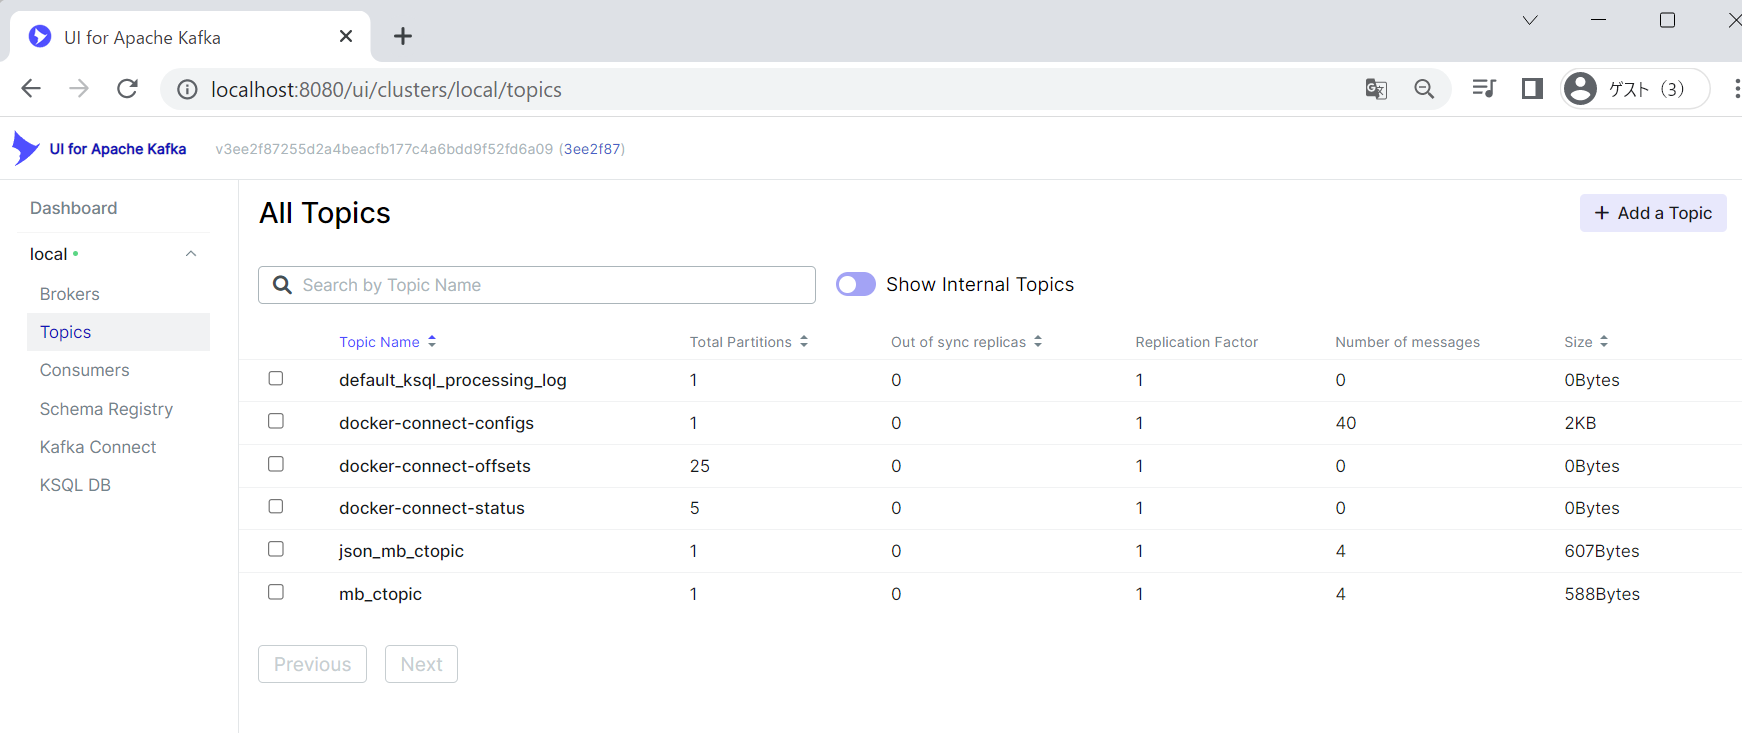
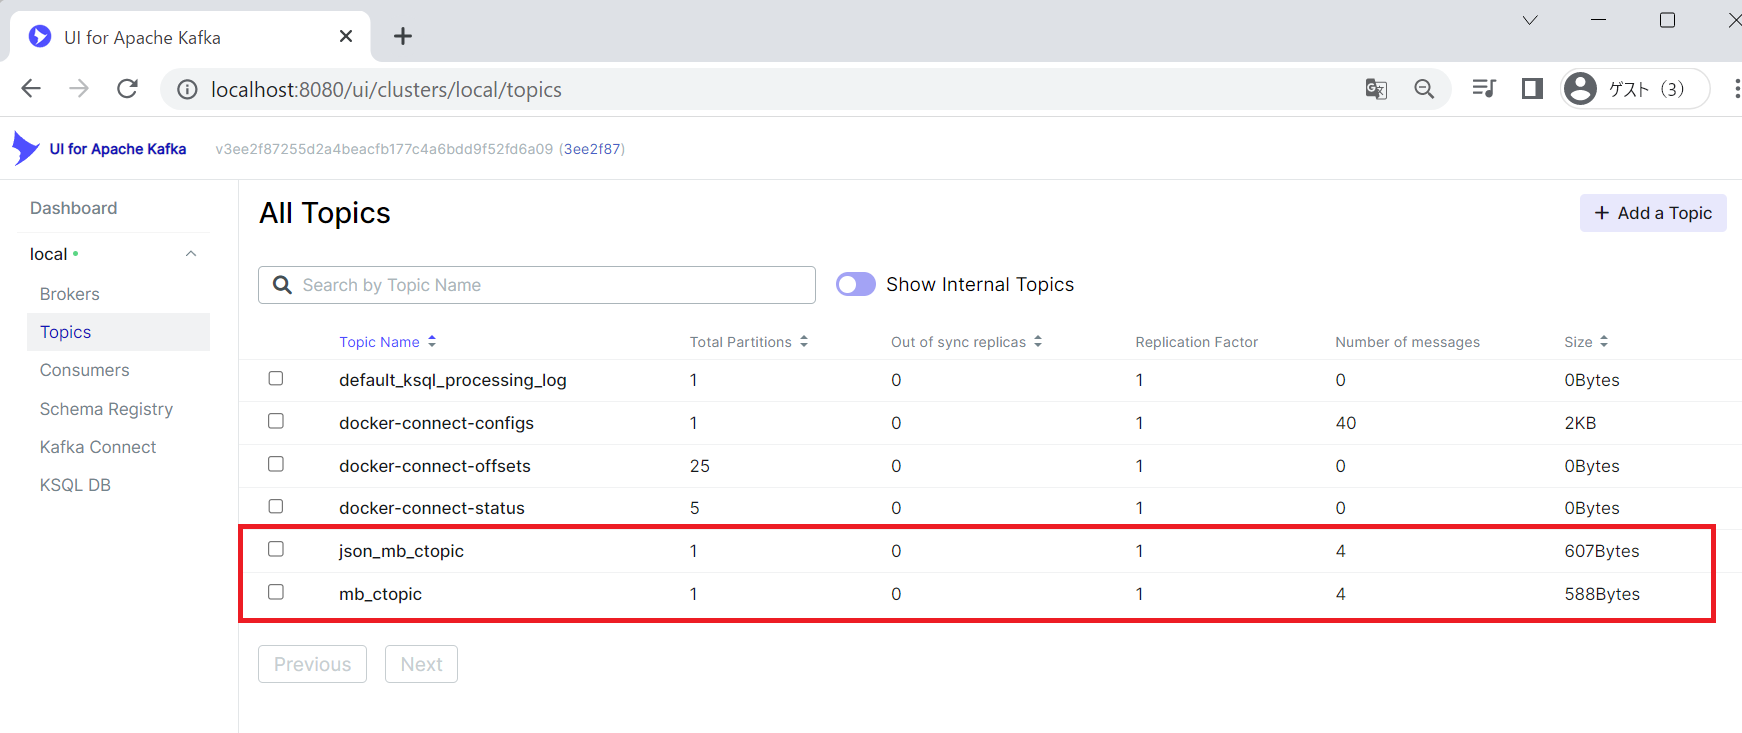
update text

Changed region(s): [[0.124, 0.6903, 0.992, 0.7503], [0.124, 0.8404, 0.992, 0.8704]]

diff --git a/docs/testlab_system/environment.md b/docs/testlab_system/environment.md
@@ -2,23 +2,27 @@
 
 ## 動作環境
 
-テストラボシステムは一般的な Windows の動作する PC 上で動作させることができます。
+テストラボシステムは、一般的な Windows PC 上で動作可能です。
+また、Docker が動作する一般的な PC で利用できるように設計されています。
+動作確認は以下の環境で行われています。
 
-docker の動作する一般的な PC であれば動作するように作成しています。
-動作確認は以下の環境で行っています。
-
-- 基盤の実行環境
-  - Windows11 Pro
+- 動作確認環境
+  - OS: Windows11 Pro
+    - CPU: AMD Ryzen 7 PRO 5850U
+    - MEM: 48GB
   - WSL2(Ubuntu 22.04)
-  - Docker
+  - Rancher Desktop(WSL2)
+    - Docker 環境として利用
 - 接続クライアント
-  - Google Chrome
-  - Safari(iPhoneSE2/iOS16)
+  - PC ブラウザ
+    - Google Chrome
+  - スマートフォン
+    - Safari(iPhoneSE2/iOS16)
+- 動作を想定している環境
+  - OS: Docker が動作する OS
+  - MEM: 16GB 程度
 
-動作確認や手順の中で、以下のコマンドを用いるので事前に導入をしてください。
-
-- git
-- docker
+別の動作確認済の環境として、AWS EC2 サービスの c5.xlarge では動作を確認しています。
 
 ## 機能とシステム構成
 
@@ -28,7 +32,7 @@ docker の動作する一般的な PC であれば動作するように作成し
 
 - スマートフォンのジャイロセンサ(加速度、傾き)を入力とします。
 - ジャイロセンサのデータをコンテナによって流通させます。
-- 流通させたコンテナから値を取り出し可視化します。
+- 流通させたコンテナから値を取り出し可視化した出力をします。
 
 ### システム構成
 
@@ -36,16 +40,31 @@ docker の動作する一般的な PC であれば動作するように作成し
 
 ![](environment/overview_on_pc.drawio.png)
 
-_図: システム構成_
+_図 A-1: システム構成_
 
-１つの PC の上でテストラボシステムを動作させます。
+１つのコンピュータの上でテストラボシステムを動作させます。
 テストラボシステム内はメッセージング機能をハブとして、各機能間を接続してシステムを実現しています。
 
-動作している環境にスマートフォンでアクセスする事で、スマートフォンのセンサ情報をシステムに取り込み蓄積し可視化を可能にします。
+データは以下のようにやり取りされていきます。
+
+1. スマートフォンセンサ機能でスマートフォンのセンサ情報をコンテナで取り込みます。
+2. メッセージング機能を介してコンテナ処理機能にコンテナデータを送ります。
+3. コンテナ処理機能はスキーマリポジトリと連携して、コンテナから JSON に変換します。
+4. メッセージング機能を介して可視化機能に JSON を送り可視化します。
 
 ## 起動手順
 
-docker compose でアプリケーションを動かします。
+ここからテストラボシステムを動作させる手順に入ります。
+
+:::info 事前準備
+この先の手順では以下のコマンドを用います。
+事前にインストールしてください。
+
+- git
+- docker
+
+:::
+
 まず、git で必要なファイルを取得(クローン)します。
 この手順で複数のリポジトリを取得します。
 
@@ -53,7 +72,10 @@ docker compose でアプリケーションを動かします。
 ~$ git clone --recursive https://github.com/sensing-iot-standard-consortium-ja/test-lab-system.git
 ```
 
-以下の手順で動作を確認します。
+複数のリポジトリが取得されます。
+
+docker のサブコマンドである、docker compose でアプリケーションを動かします。
+以下の手順を実行します。
 
 ```
 ~$ cd test-lab-system/
@@ -98,8 +120,8 @@ test-lab-system-zookeeper-1 confluentinc/cp-zookeeper:7.1.0 "/etc/confluent/dock
 
 <!-- textlint-enable -->
 
-この時点で複数のアプリケーションが動作しています。
-この後の手順に用いるものや画面を持つものを示します。
+この時点でテストラボシステムを構成する複数のアプリケーションが動作しています。
+この後の手順上重要なものを示します。
 
 - スマートフォンセンサー機能
   - test-lab-system-websensor-1: スマートフォンセンサー機能を提供する Web アプリケーション
@@ -112,10 +134,10 @@ test-lab-system-zookeeper-1 confluentinc/cp-zookeeper:7.1.0 "/etc/confluent/dock
   - test-lab-system-grafana-1: 可視化機能を提供する Web アプリケーション
   - test-lab-system-postgres-1: メッセージング機能から受け取ったデータを格納する DB
 
-container-consumer が再起動を繰り返しますが、
+現時点では container-consumer が再起動を繰り返しますが、
 この後の手順で是正するのでこの時点では許容します。
 
-## 起動確認
+### 起動確認
 
 起動確認のため、ブラウザから Web アプリケーションを開きます。
 正しく動作していると以下の URL から確認できます。
@@ -124,88 +146,128 @@ Google Chrome で以下のページを開いてみてください。
 
 1. スマートフォンセンサー機能：[http://localhost:1188/](http://localhost:1188/)
    ![TestlabSensor](environment/testlab-sensor.png)
+
+   _図 A-2: スマートフォンセンサ機能_
+
 1. スキーマリポジトリ：[http://localhost:30002/](http://localhost:30002/)
    ![IotRegisitory](environment/iot-registory.png)
+
+   _図 A-3: スキーマリポジトリ機能_
+
 1. 可視化機能：[http://localhost:3000/](http://localhost:3000/)
    ![Grafana](environment/grafana.png)
+
+   _図 A-4: 可視化機能_
+
 1. メッセージング機能(管理画面)[http://localhost:8080/](http://localhost:8080/)
    ![ApacheUI for Apache Kafka](environment/ui4apachekafka.png)
+
+   _図 A-5: メッセージング機能(管理画面)_
 
 上記のような画面が出れば、順調に進んでいます。
 
 ## 初期設定手順
 
-ここまででテストラボシステムは起動しています。
-これからは各種設定をします。
+ここまででテストラボシステムは起動していますが、いくつか設定が不足しているので設定をします。
 
 スマートフォンセンサ機能からセンサデータを送信し可視化するまでの手順を示します。
 
-### メッセージング機能とコンテナ処理機能間の設定
+### メッセージング機能へのトピック追加
 
-メッセージング機能とコンテナ処理機能間の設定をします。
+スマートフォンセンサからコンテナ処理機能にデータをやり取りするためのトピックが準備できていないので作成します。
+トピックとはデータのやり取りを行うためのチャンネルのようなものです。
 
-<!-- メッセージングに用いるソフトウェアの Kafka の設定をします。
-Kafka に複数のプロセス間のデータやり取りのハブになります。
-Kafka ではトピックに対し、データを提供する Producer とデータを利用する Consumer が存在します。
-ここでは、準備している Consumer がコンテナを入力として取り扱えるように、トピックを作成します。
-UI for Apache Kafka を用いてトピックの状況を確認します。 -->
+![](environment/overview_target1.drawio.png)
 
-メッセージング機能上に、データのやり取りに用いるトピックを作成します。
+_図 B-1: システム構成(設定箇所)_
 
-#### 変更前の状態確認
+メッセージ基盤は未登録のトピックでデータを投入した場合、自動的にトピックを作成する設定になっています。
+ここでは、スマートフォンセンサ機能からデータを送ることでトピックを追加します。
 
-以下の UI for Apache Kafka の画面より、現在存在するトピックを確認します。
+#### 変更前のトピックの確認
+
+以下の [UI for Apache Kafka](http://localhost:8080/) の画面より、現在存在するトピックを確認します。
 ページを開いた後、 `Show Internal Topics` を無効化すると 4 つのトピックが表示されています。
 
 - [http://localhost:8080/ui/clusters/local/topics](http://localhost:8080/ui/clusters/local/topics)
   ![UI for Apache Kafka1](environment/kafka_ui1.png)
 
-#### 設定変更（トピックの追加)
+_図 B-2:メッセージング(UI for Apache Kafka)機能の画面(変更前)_
 
-未登録のトピックでデータを投入した場合、自動的にトピックを追加する設定になっています。
-今回は、スマートフォンセンサ機能からデータを送ることでトピックを追加します。
+#### トピックの作成（データの送信)
 
-設定が目的なのでスマートフォンセンサ機能ですが PC から開いてください。
+トピックの作成のために、スマートフォンセンサー機能からメッセージング機能にデータを送ります。
+
+スマートフォンセンサ機能ですが PC から開いてください。
 
 1. データ送信のページを開く  
    [http://localhost:1188/ ](http://localhost:1188/)
 2. `値の更新` を押下  
-   加速度、傾きなどに適当な値が入ります
+   加速度、傾きなどに適当な値が入ります。
 3. `単発送信` を押下  
-   サンプルアプリから Kafka にデータが送信されます
+   スマートフォンセンサ機能から、メッセージ基盤へデータが送信されます。
 
 ![サンプルアプリ](environment/send_example_data.png)
-_スマートフォンセンサ機能の画面_
 
-### 設定変更語の設定状態確認
+_図 B-3:スマートフォンセンサ機能の画面_
 
-UI for Apache Kafka を開き画面を更新します。  
+メッセージ基盤へデータを送ることで、メッセージ基盤上に必要な設定が作られます。
+
+#### 設定変更後の設定状態確認
+
+[UI for Apache Kafka](http://localhost:8080/) を開き画面を更新します。  
 `json_mb_ctopic` と `mb_ctopic` の 2 つのトピックが増えていれば期待通りです。
-確認できるまで数分程度かかる可能性があります。
+ただし、確認できるまで数分程度かかる可能性があります。
 
 ![](environment/kafka_ui2.png)
+_図 B-4:メッセージング(UI for Apache Kafka)機能の画面(変更後)_
 
-ここでは `mb_ctopic` というトピックに発行されたコンテナを、
-コンテナ処理基盤(container-consumer)で処理してコンテナを json へ変換して `json_mb_ctopic` に投入している。
+ここでは `mb_ctopic` というトピックに発行されたコンテナをコンテナ処理基盤(container-consumer)で json へ変換し、
+`json_mb_ctopic` というトピックで再度メッセージング基盤に投入しています。
+システム構成からみると図 A-6: のように
 
-また、この手順で container-consumer が再起動しないようになります。
+![](environment/overview_target2.drawio.png)
 
-## メッセージング機能と可視化機能間の設定
+_図 B-5:システム構成と初期設定の対応_
 
-kafka に届いたデータを Avro というデータ形式に変換し、可視化画面用の DB に Sink するための設定をします。
+ここまでで、スマートフォンセンサからコンテナデータを受取り、
+コンテナ処理機能(container-consumer) によってコンテナデータを json へ変換し、メッセージ機能へ投入する設定が完了します。
 
-### データ変換の登録
+### メッセージング機能でのデータ変換
 
-`json_mb_topic` からフォーマットに変換し可視化を行う `Grafana`で用いるデータベースに蓄積をする。
+メッセージング基盤内向けのデータ変換とタイムスタンプの付与の設定を行います。
 
-- 以下のページを開く  
-  [http://localhost:8080/ui/clusters/local/ksqldb/query](http://localhost:8080/ui/clusters/local/ksqldb/query)
+![](environment/overview_target4.drawio.png)
 
-- 画像のようなページが表示される
-  ![](environment/ksql_query_page.png)
+_図 C-1:システム構成(設定箇所)_
 
-- ksql で Stream を作成する（１つ目）  
-  以下の ksql クエリをコピーペーストし、`Execute` を押下
+図 C-1: で示したように、メッセージング基盤内に閉じた内容の設定になります。
+
+#### データ変換の登録
+
+メッセージング基盤上では、トピック(kafka の topic)と Streaming SQL と呼ばれる機能が結合しています。
+これによって、あるトピックに流れてくるデータを SQL におけるテーブル(ストリーム)とみなして、SQL の様に処理ができます。
+
+ここでは、コンテナ処理機能からの、`json_mb_topic` のトピックから取得されるデータに対して、
+
+1. テーブル(ストリーム)を作成する
+2. タイムスタンプ付与し、トピックにする
+
+という処理を実現します。
+
+##### テーブル(ストリーム)を作成
+
+以下の手順に従って、`json_mb_topic` のトピックから、テーブル(ストリーム)を作成します。
+
+1. メッセージ基盤の KSQL の実行ページを開く  
+   [http://localhost:8080/ui/clusters/local/ksqldb/query](http://localhost:8080/ui/clusters/local/ksqldb/query)
+
+   ![](environment/ksql_query_page.png)
+
+   _図 C-2:KSQL の実行ページ_
+
+1. ksql で Stream を作成する  
+   以下の ksql の SQL をコピーペーストし、`Execute` を押下
 
 ```
 CREATE STREAM stream_mb_topic
@@ -224,13 +286,20 @@ CREATE STREAM stream_mb_topic
   );
 ```
 
-- 実行結果の確認（１つ目）
+- 実行結果の確認
 
 画像の下のように `SUCCESS Stream created` と表示される。
+
 ![](environment/ksql_execute.png)
 
-- Stream を作成する（２つ目）
-  同様にもう 1 つクエリを実行する。
+_図 C-2:メッセージング(UI for Apache Kafka)機能の ksql 実行結果の確認_
+
+これで、ストリームが作成できました。
+
+##### タイムスタンプを付与し、トピックにする
+
+ストリームに対して、タイムスタンプを付与して、トピックにするための SQL を実行します。
+前項の画面に引き続き以下の SQL を実行します。
 
 ```
 CREATE STREAM stream_mb_topic_avro
@@ -247,19 +316,25 @@ AS SELECT
 FROM stream_mb_topic as s;
 ```
 
-- 作成した stream を確認する
-  同様に以下のクエリを実行する。
+作成した stream を確認する為に、以下の SQL を実行します。
 
 ```
 show streams;
 ```
 
-![picture 23](environment/show_streams.png)  
-画像の下部のように`STREAM_MB_CTOPIC` と`AVRO_MB_CTOPIC` が表示されれば成功。
+![picture 23](environment/show_streams.png)
+
+_図 A-7:メッセージング(UI for Apache Kafka)機能の ksql 設定画面_
+
+画像の下部のように`STREAM_MB_CTOPIC` と`AVRO_MB_CTOPIC` が表示されれば期待通りです。
 
 ### メッセージング機能から可視化機能へのデータ転送
 
-Kafka の Connector を設定。
+![](environment/overview_target3.drawio.png)
+
+_図 A-8:システム構成における設定箇所_
+
+Kafka の Connector を設定することで、メッセージング機能から可視化機能のデータベースに対してデータを転送します。
 
 - Connector の設定ページを開く  
   [http://localhost:8080/ui/clusters/local/connectors/create-new](http://localhost:8080/ui/clusters/local/connectors/create-new)
@@ -297,10 +372,15 @@ Kafka の Connector を設定。
 
 `avro_mb_jtopic` という Connector が存在すれば OK です。
 
-## 可視化機能の設定
+## 可視化機能の動作確認
 
-データを可視化する画面へアクセスする。
-改めて設定する項目はないが、アプリケーションの動作確認として以下を実施する。
+可視化機能(Grafana)へアクセスし、動作を確認する。
+
+![](environment/overview_target5.drawio.png)
+
+_図 A-9:システム構成との対応_
+
+設定は事前にテストラボシステムの中で設定しているため、改めて設定する項目はないが、アプリケーションの動作確認として以下を実施する。
 
 1. Grafana へアクセス  
    以下の情報で Grafana へアクセスしログインする  
@@ -328,6 +408,8 @@ Kafka の Connector を設定。
    画面は 5 秒に 1 回の更新がされるのでデータ送信後 5 秒以内に表示される。  
    (画面右上から 1s に変更可)
    ![picture 24](environment/grafana_graph.png)
+
+_図 A-10:可視化機能 ExampleDashboard_
 
 ## コンテナ処理機能の設定
 

diff --git a/docs/firststep/index.md b/docs/firststep/index.md
@@ -61,7 +61,8 @@
 ここで作られているコンテナは[Container Format で示された仕様](spec_guide)と差異がある。
 
 - Data ID Length フィールドがない。
-  :::
+
+:::
 
 対して、Payload はセンサーの計測値を反映するため値が高頻度で更新されます。  
 ペイロードは以下のような形式で送信されます。
